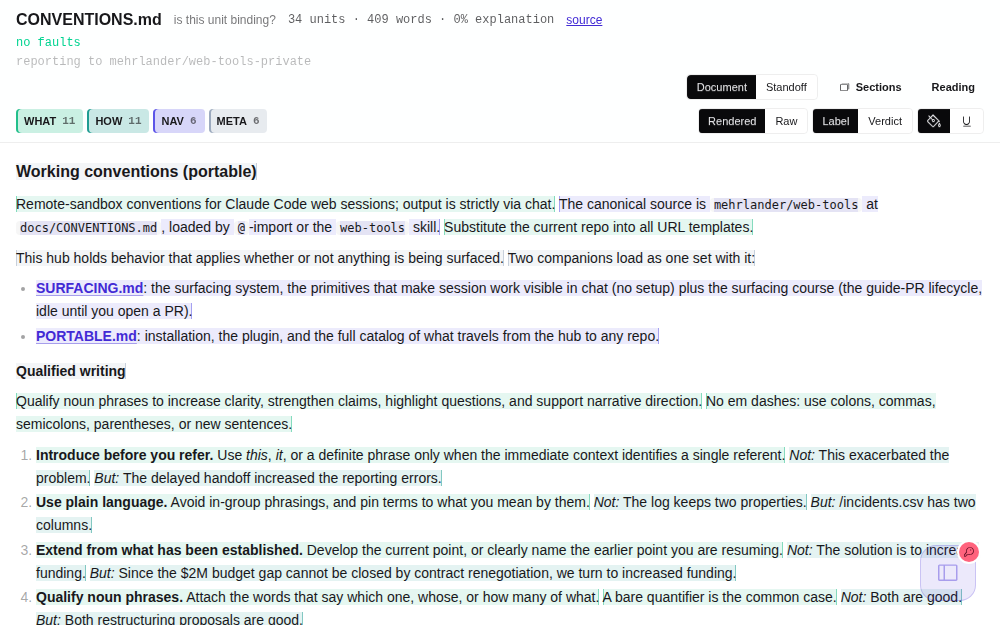
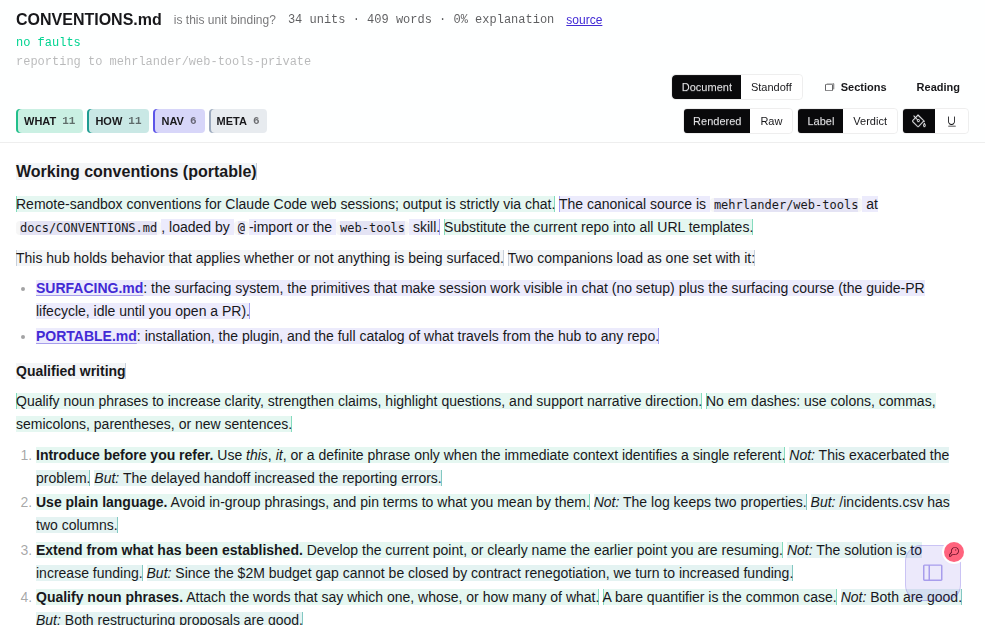
audit-render: reserve the scrollbar's space, and a smaller raw view
scrollbar-gutter: stable on <html> keeps the layout from shifting when a
view is long enough to scroll and the platform draws a classic scrollbar,
as the raw view did. The raw view drops from text-base to 13px with
relaxed leading, closer to the rendered view's 14px body.

Claude-Session: https://claude.ai/code/session_01UshAzoRR1in7ikmt3REzQ7

diff --git a/pages/audit-render.html b/pages/audit-render.html
@@ -1,5 +1,5 @@
 <!doctype html>
-<html lang="en" data-theme="light">
+<html lang="en" data-theme="light" class="[scrollbar-gutter:stable]">
 <head>
 <meta charset="utf-8">
 <meta name="viewport" content="width=device-width, initial-scale=1">
@@ -1276,7 +1276,7 @@ window.__audit = {
       // the padding the page and the deck slide had each given it.
       const box = document.createElement('div');
       box.className = this.view === 'source'
-        ? 'whitespace-pre-wrap font-mono text-base leading-7'
+        ? 'whitespace-pre-wrap font-mono text-[0.8125rem] leading-relaxed'
         : GuideRender.bodyClass();
       host_.appendChild(box);
 
